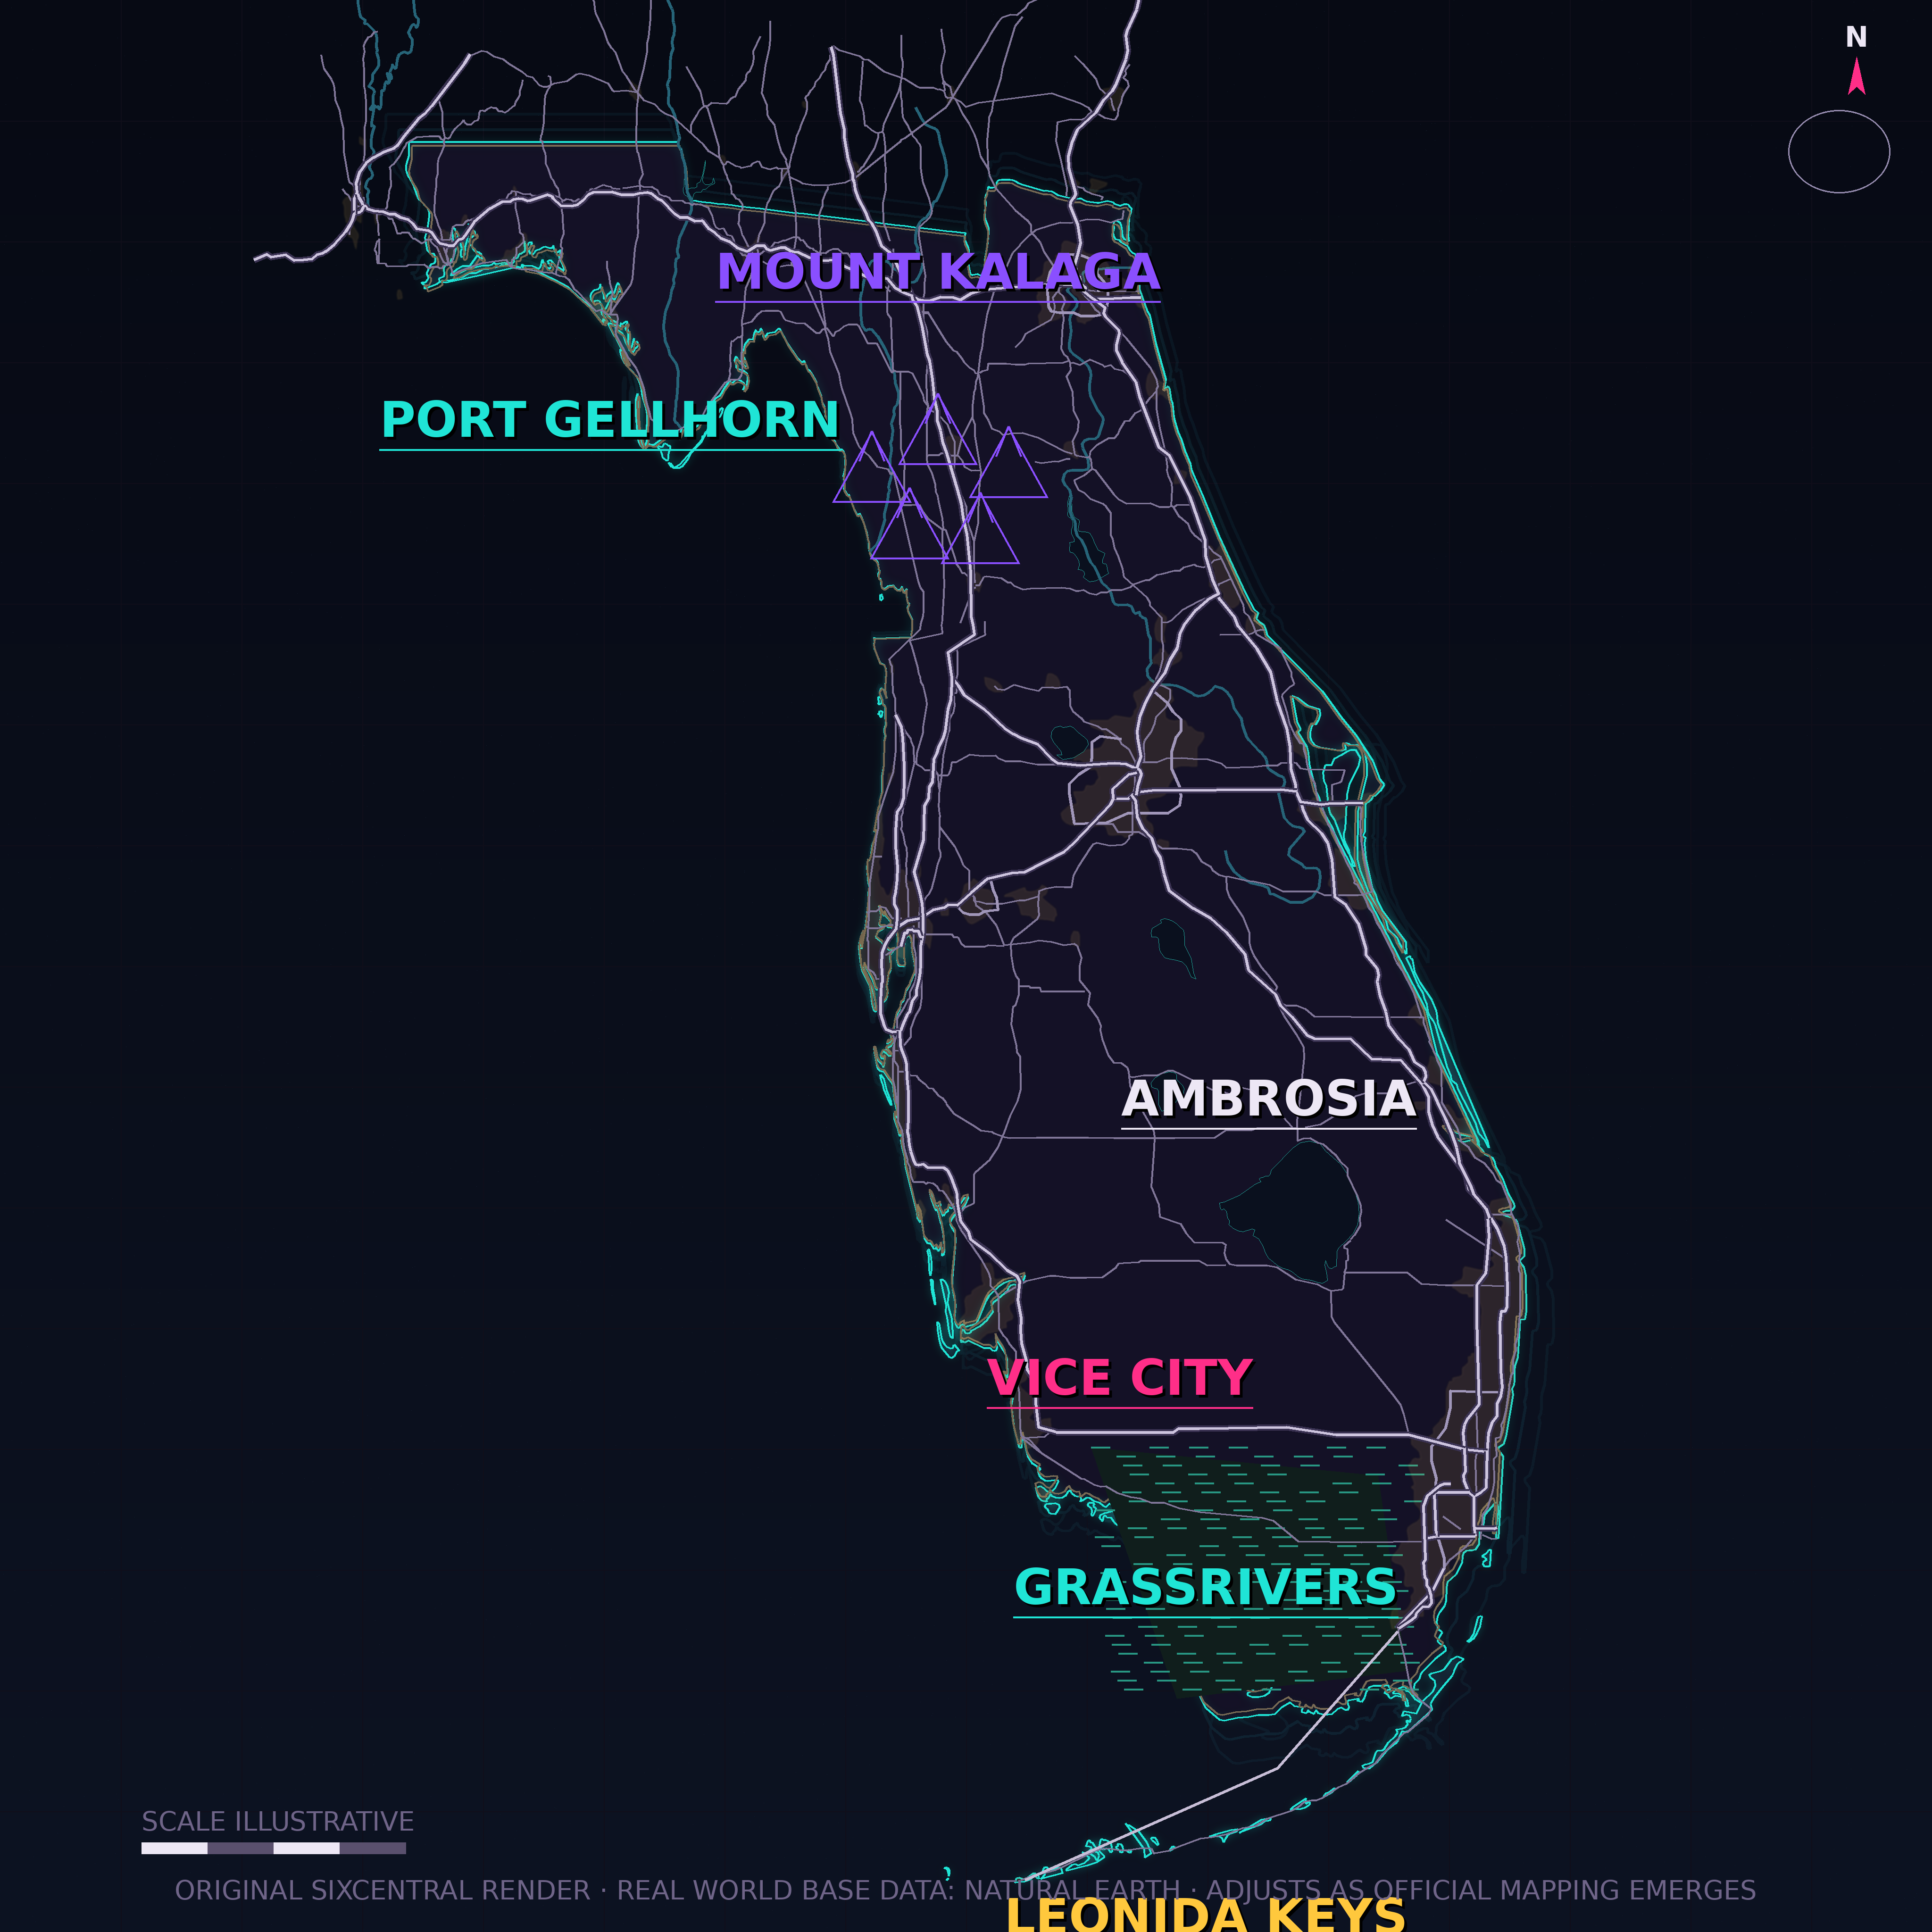
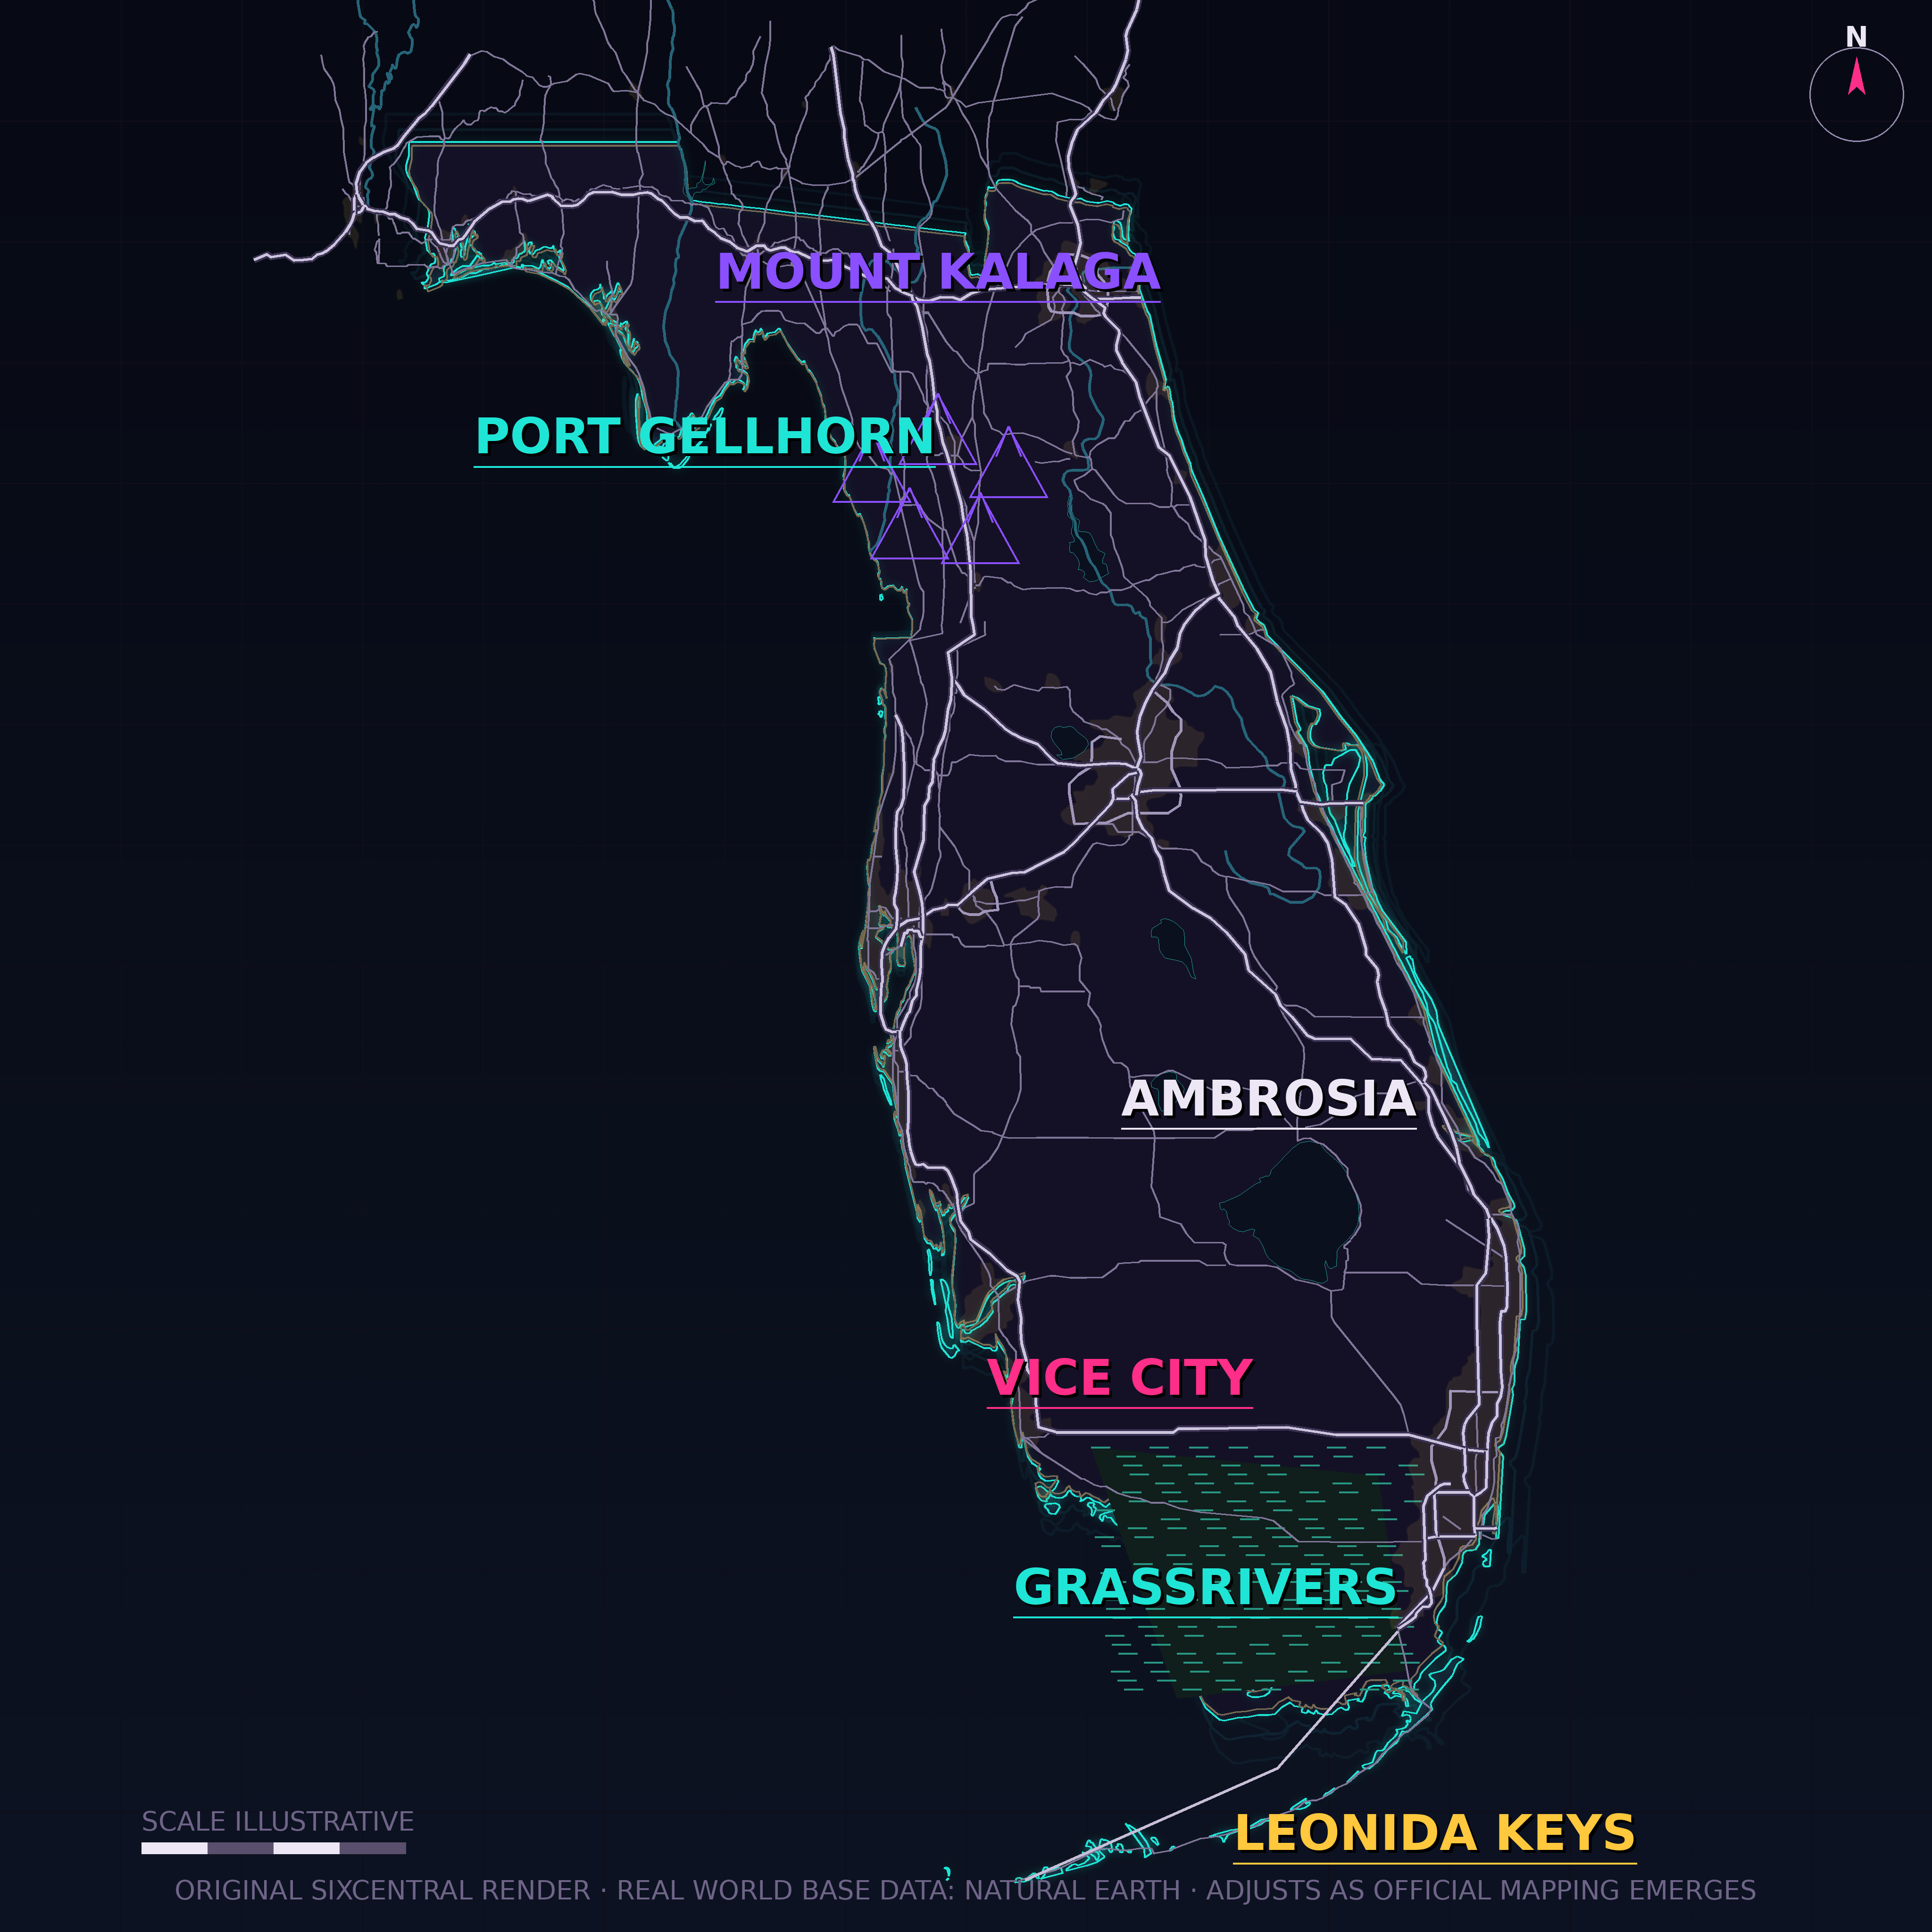
Map: whole-state opening fit, labels rehomed, chrome decluttered

Changed region(s): [[0.1875, 0.1875, 0.5, 0.25], [0.5, 0.9375, 0.8438, 1.0]]

diff --git a/sixcentral/app/src/app/(tabs)/map.tsx b/sixcentral/app/src/app/(tabs)/map.tsx
@@ -32,8 +32,8 @@ export default function MapTab() {
   const [filter, setFilter] = useState<string | null>(null);
   const [selected, setSelected] = useState<Pin | null>(null);
 
-  const scale = useSharedValue(fitCover);
-  const saved = useSharedValue(fitCover);
+  const scale = useSharedValue(fitContain);
+  const saved = useSharedValue(fitContain);
   const tx = useSharedValue(0);
   const ty = useSharedValue(0);
   const stx = useSharedValue(0);
@@ -119,10 +119,6 @@ export default function MapTab() {
           ))}
         </ScrollView>
       </View>
-
-      <Text style={[st.hint, { bottom: insets.bottom + 8 }]} pointerEvents="none">
-        Pinch to zoom · every pin verified before it counts
-      </Text>
 
       <Modal visible={!!selected} transparent animationType="slide" onRequestClose={() => setSelected(null)}>
         <Pressable style={st.sheetBack} onPress={() => setSelected(null)}>